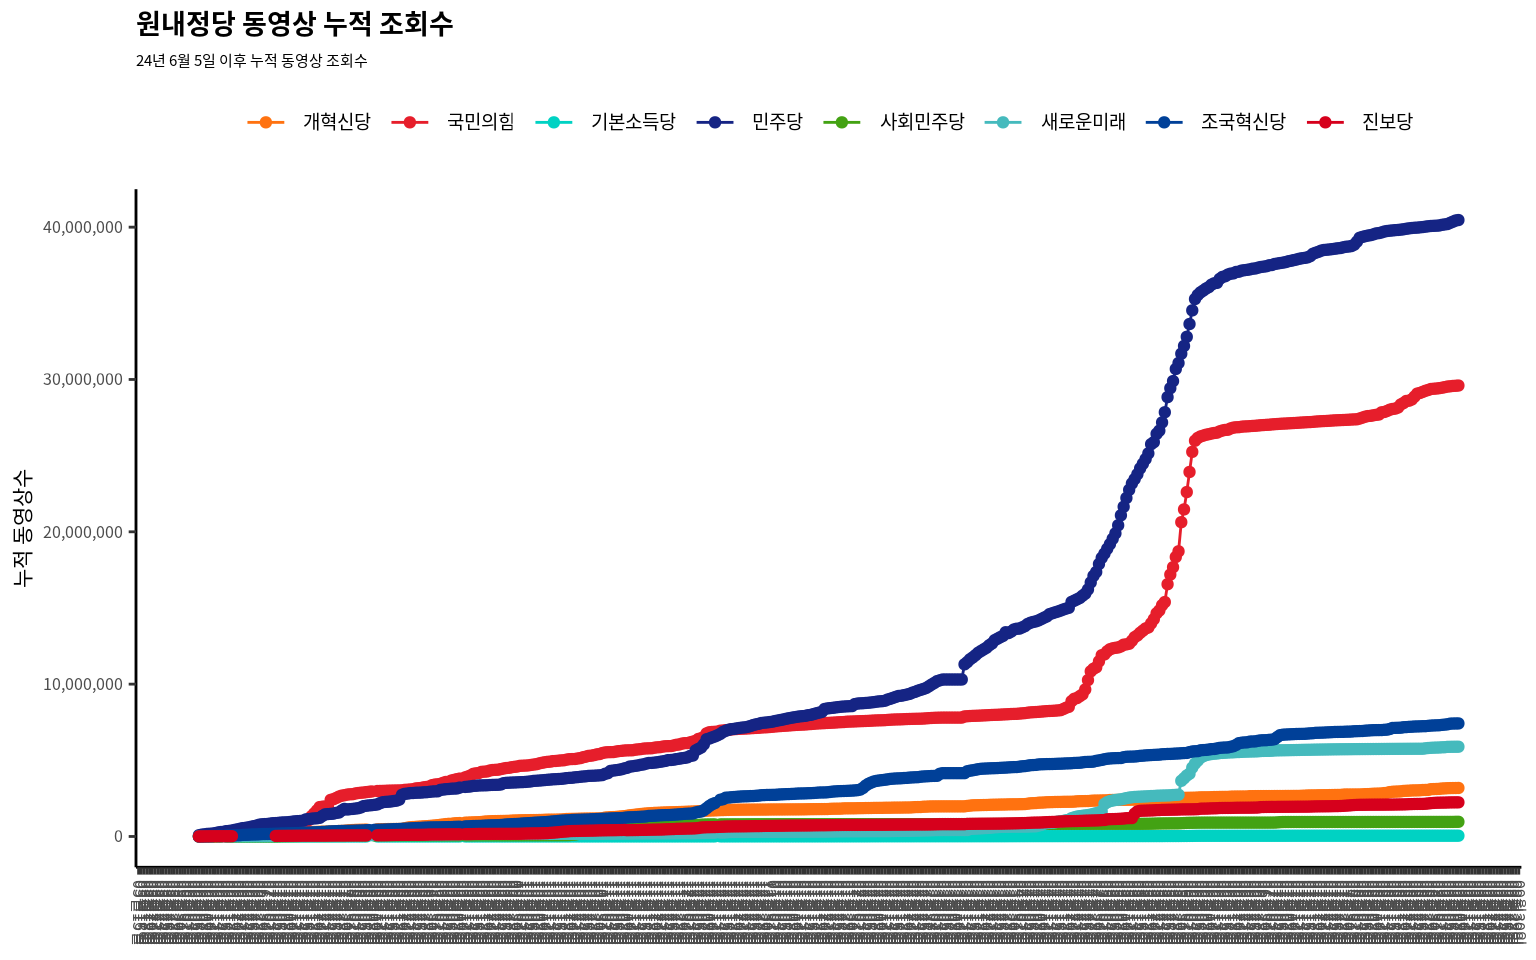
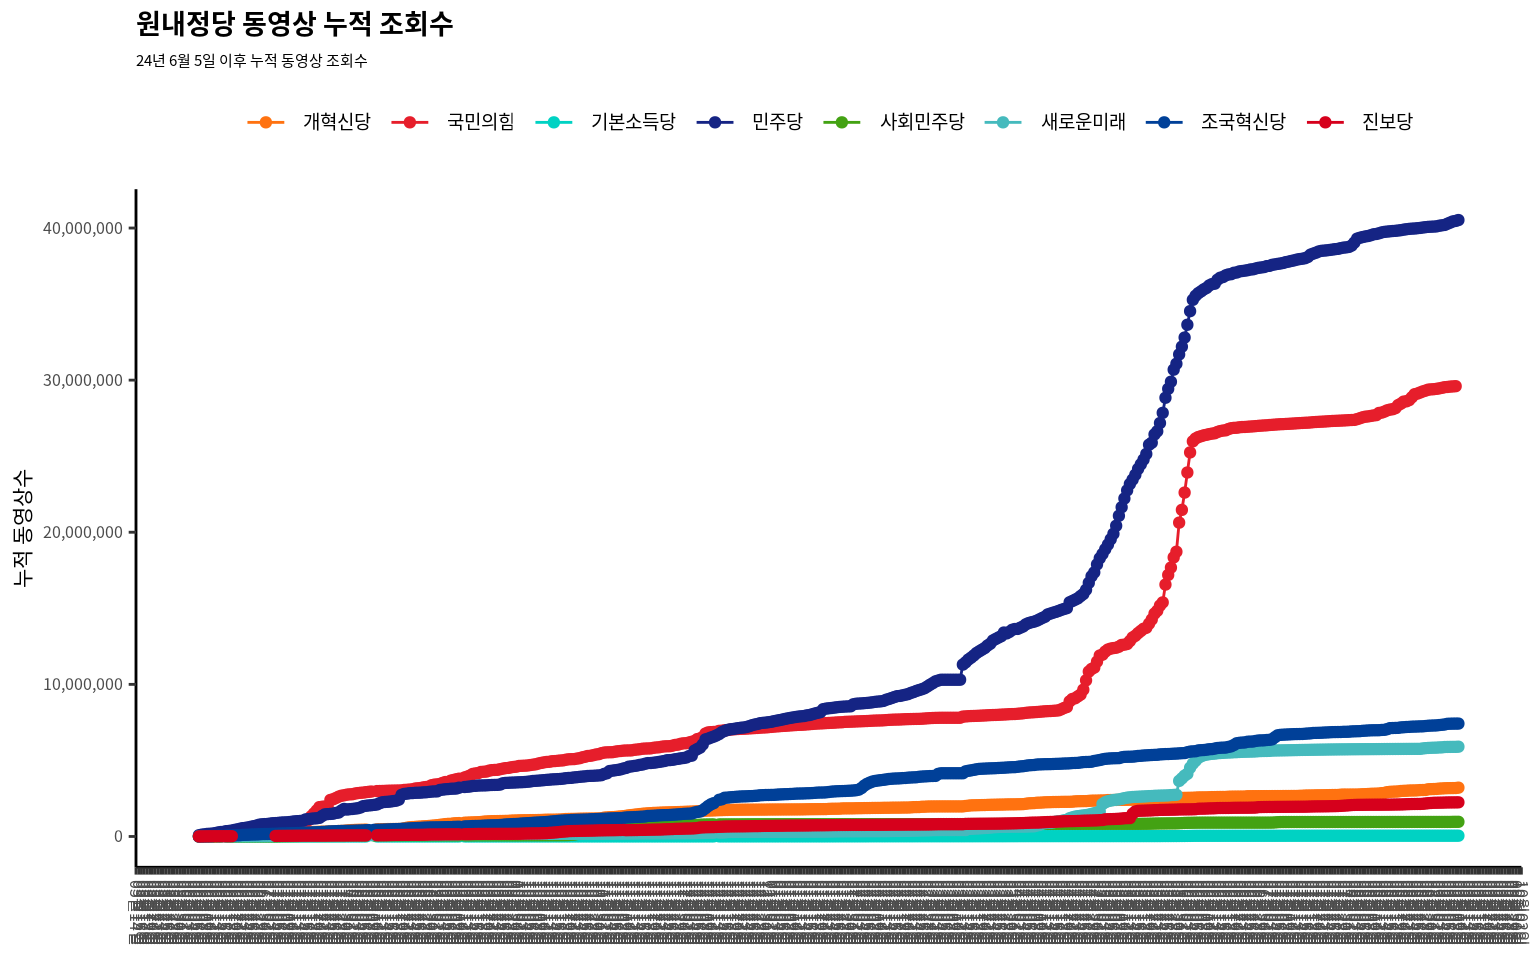
data: YouTube channels info data updated

diff --git a/index.html b/index.html
@@ -84,8 +84,8 @@ grid-auto-rows: minmax(0, 1fr);">
 <div class="card cell html-fill-item html-fill-container bslib-card" data-bslib-card-init="" data-require-bs-caller="card()" data-full-screen="false">
 <div class="card-body html-fill-item html-fill-container">
 <div class="cell-output-display html-fill-item html-fill-container">
-<div class="reactable html-widget html-fill-item html-fill-container" id="htmlwidget-6065b3ac198c354dcb30" style="width:auto;height:auto;"></div>
-<script type="application/json" data-for="htmlwidget-6065b3ac198c354dcb30">{"x":{"tag":{"name":"Reactable","attribs":{"data":{"채널":["UCoQD2xsqwzJA93PTIYERokg","UCGd1rNecfS_MND8PQsKOJhQ","UCKsehTG1cZIeb80J4AyiJ6Q","UCdkv2W-p3wEK5REQHfu7OKA","UCD2FurCIhOsG3FsTM1-jirA","UC58ySWAGaH5AxRQCk3XGLzA","UCvtJBm9C0rd6Py-GB8KLH1A","UCHXfJ__xZs-BAA-tU8L19rQ"],"정당명":["민주당","국민의힘","조국혁신당","개혁신당","진보당","새로운미래","기본소득당","사회민주당"],"채널명":["델리민주 [더불어민주당]","국민의힘TV","조국혁신당","개혁신당","진보당 진보TV","새미래민주당","기본소득당","사회민주당"],"개설일":["2018-10-30","2012-02-13","2024-03-06","2018-04-25","2017-10-25","2024-01-22","2019-08-27","2023-07-25"],"설명":["늘 국민과 함께하는\n더불어민주당 공식 유튜브 채널 델리민주입니다.\n\n-\n과거 영상\n🔵 민주당 영상아카이브1 https://youtube.com/c/minjoodang\n🔵 민주당 영상아카이브2 https://youtube.com/user/minjootv\n","국민 앞에 하나!  대한민국 유일 정통보수정당 '국민의힘' 공식 유튜브 채널입니다.\n\n국민의 힘으로 대한민국의 역사와 미래를 지키겠습니다.","이 채널은 조국혁신당이 국민과 함께  \n‘더 나은 대한민국’을 만들어가기 위해 준비한 소통의 공간입니다.  \n\n정의로운 민주주의, 사회권 선진국, 그리고 국민의 안전과 권리를 지키는 정치를 약속합니다.\n\n📌 여기서 만날 수 있는 콘텐츠\n- 조국혁신당의 공식 입장과 메시지\n- 주요 정책 해설과 현장 설명\n- 당 대표 및 의원들의 연설과 인터뷰\n- 국민과 함께하는 집회, 간담회, 행사 영상\n\n우리의 일상, 우리 미래와 딱 맞닿아 정치. \n어렵지 않습니다. \n\n구독과 알림 설정으로 함께해주세요.  \n“더 나은 대한민국”을 만드는 여정,  \n이제 우리 모두의 이야기입니다.\n","개혁신당 공식 유튜브 채널입니다.\n\n최고위원회의와 당내 행사를 가장 빠르게 만나보실 수 있습니다.\n구독과 좋아요 부탁드립니다!\n\n[중앙당 후원]\n신한 140-014-435110(예금주_개혁신당 중앙당 후원회)\n\n링크\n개혁신당 홈페이지 : https://rallypoint.kr/\n개혁신당 인스타그램 : www.instagram.com/reformparty__official\n","진보당의 공식 유튜브 채널입니다.\n\n온라인 당원가입 : https://jinboparty.com/pages/?p=34&u=W&step\n진보당 후원 계좌 : 농협 301-0221-3827-11\n후원 문의 : 02-6933-0012\n후원 안내 : https://jinboparty.com/contents/?cp=support\n","오직 국가의 미래와 국민의 행복만을 바라보고 나아갑니다.\n국민 여러분의 동참을 부탁드립니다.\n","대한민국 원내정당 기본소득당의 공식 유튜브입니다\n","사회민주당 공식 유튜브 계정\n"],"키워드":["민주당 더불어민주당 더민주 민주 델리민주 \"더불어민주당 유튜브\"","자유한국당 오른소리 김병준 나경원 홍준표 의원총회 최고위원회의 최고중진연석회의 박근혜 김무성 민생 경제 유세 순방 방문 황교안 단식 광화문 투쟁 미래통합당 유승민 이언주 국민의힘 김종인 준스톤 이준석 국민의힘 윤석열 한동훈","조국 조국혁신당 황운하 김선민 신장식 이해민 서왕진 정춘생 차규근 김준형 박은정 김재원 강경숙 윤석열탄핵 정권심판 검찰해체 금투세 탄핵추진위원회 3개월은너무길다 한동훈 국민의힘 김건희정권","개혁신당 이준석 천하람 이기인 준스톤 선거 국회의원 여당 야당 국회 비례대표 신당 창당 정당 민심 \"이준석 유튜브\" 제3정당 \"이준석 신당\"","진보당 윤석열 김건희 탄핵 특검 퇴진 이재명 김재연","","기본소득 기본소득당 재난지원금 용혜인 신지혜",""],"토픽범주":["/m/05qt0, /m/098wr","/m/05qt0, /m/098wr","/m/098wr, /m/05qt0","/m/098wr, /m/05qt0","/m/098wr, /m/05qt0","/m/05qt0, /m/098wr","/m/098wr, /m/05qt0","/m/05qt0, /m/098wr"]},"columns":[{"id":"채널","name":"채널","type":"character","header":"채널","minWidth":30,"align":"center","headerStyle":{"background":"#f7f7f8"},"cell":"\n          function(cellInfo) {\n            // Render as a link\n            \n            return '<a href=https://www.youtube.com/channel/' + cellInfo.value + '/>' + cellInfo.value + '<\/a>'\n          }","html":true},{"id":"정당명","name":"정당명","type":"factor","header":"정당명","minWidth":10,"align":"center","headerStyle":{"background":"#f7f7f8"},"show":true},{"id":"채널명","name":"채널명","type":"character","header":"채널명","minWidth":15,"align":"center","headerStyle":{"background":"#f7f7f8"},"show":true},{"id":"개설일","name":"개설일","type":"Date","header":"개설일","minWidth":10,"align":"center","headerStyle":{"background":"#f7f7f8"},"show":true},{"id":"설명","name":"설명","type":"character","header":"설명","minWidth":80,"align":"center","headerStyle":{"background":"#f7f7f8"}},{"id":"키워드","name":"키워드","type":"character","header":"키워드","minWidth":50,"align":"center","headerStyle":{"background":"#f7f7f8"},"show":true},{"id":"토픽범주","name":"토픽범주","type":"character","header":"토픽범주","minWidth":30,"align":"center","headerStyle":{"background":"#f7f7f8"},"show":true}],"searchable":true,"highlight":true,"bordered":true,"dataKey":"09557dbdb670c0a849673c70b34dabc5"},"children":[]},"class":"reactR_markup"},"evals":["tag.attribs.columns.0.cell"],"jsHooks":[]}</script>
+<div class="reactable html-widget html-fill-item html-fill-container" id="htmlwidget-275055ac31ee702056d2" style="width:auto;height:auto;"></div>
+<script type="application/json" data-for="htmlwidget-275055ac31ee702056d2">{"x":{"tag":{"name":"Reactable","attribs":{"data":{"채널":["UCoQD2xsqwzJA93PTIYERokg","UCGd1rNecfS_MND8PQsKOJhQ","UCKsehTG1cZIeb80J4AyiJ6Q","UCdkv2W-p3wEK5REQHfu7OKA","UCD2FurCIhOsG3FsTM1-jirA","UC58ySWAGaH5AxRQCk3XGLzA","UCvtJBm9C0rd6Py-GB8KLH1A","UCHXfJ__xZs-BAA-tU8L19rQ"],"정당명":["민주당","국민의힘","조국혁신당","개혁신당","진보당","새로운미래","기본소득당","사회민주당"],"채널명":["델리민주 [더불어민주당]","국민의힘TV","조국혁신당","개혁신당","진보당 진보TV","새미래민주당","기본소득당","사회민주당"],"개설일":["2018-10-30","2012-02-13","2024-03-06","2018-04-25","2017-10-25","2024-01-22","2019-08-27","2023-07-25"],"설명":["늘 국민과 함께하는\n더불어민주당 공식 유튜브 채널 델리민주입니다.\n\n-\n과거 영상\n🔵 민주당 영상아카이브1 https://youtube.com/c/minjoodang\n🔵 민주당 영상아카이브2 https://youtube.com/user/minjootv\n","국민 앞에 하나!  대한민국 유일 정통보수정당 '국민의힘' 공식 유튜브 채널입니다.\n\n국민의 힘으로 대한민국의 역사와 미래를 지키겠습니다.","이 채널은 조국혁신당이 국민과 함께  \n‘더 나은 대한민국’을 만들어가기 위해 준비한 소통의 공간입니다.  \n\n정의로운 민주주의, 사회권 선진국, 그리고 국민의 안전과 권리를 지키는 정치를 약속합니다.\n\n📌 여기서 만날 수 있는 콘텐츠\n- 조국혁신당의 공식 입장과 메시지\n- 주요 정책 해설과 현장 설명\n- 당 대표 및 의원들의 연설과 인터뷰\n- 국민과 함께하는 집회, 간담회, 행사 영상\n\n우리의 일상, 우리 미래와 딱 맞닿아 정치. \n어렵지 않습니다. \n\n구독과 알림 설정으로 함께해주세요.  \n“더 나은 대한민국”을 만드는 여정,  \n이제 우리 모두의 이야기입니다.\n","개혁신당 공식 유튜브 채널입니다.\n\n최고위원회의와 당내 행사를 가장 빠르게 만나보실 수 있습니다.\n구독과 좋아요 부탁드립니다!\n\n[중앙당 후원]\n신한 140-014-435110(예금주_개혁신당 중앙당 후원회)\n\n링크\n개혁신당 홈페이지 : https://rallypoint.kr/\n개혁신당 인스타그램 : www.instagram.com/reformparty__official\n","진보당의 공식 유튜브 채널입니다.\n\n온라인 당원가입 : https://jinboparty.com/pages/?p=34&u=W&step\n진보당 후원 계좌 : 농협 301-0221-3827-11\n후원 문의 : 02-6933-0012\n후원 안내 : https://jinboparty.com/contents/?cp=support\n","오직 국가의 미래와 국민의 행복만을 바라보고 나아갑니다.\n국민 여러분의 동참을 부탁드립니다.\n","대한민국 원내정당 기본소득당의 공식 유튜브입니다\n","사회민주당 공식 유튜브 계정\n"],"키워드":["민주당 더불어민주당 더민주 민주 델리민주 \"더불어민주당 유튜브\"","자유한국당 오른소리 김병준 나경원 홍준표 의원총회 최고위원회의 최고중진연석회의 박근혜 김무성 민생 경제 유세 순방 방문 황교안 단식 광화문 투쟁 미래통합당 유승민 이언주 국민의힘 김종인 준스톤 이준석 국민의힘 윤석열 한동훈","조국 조국혁신당 황운하 김선민 신장식 이해민 서왕진 정춘생 차규근 김준형 박은정 김재원 강경숙 윤석열탄핵 정권심판 검찰해체 금투세 탄핵추진위원회 3개월은너무길다 한동훈 국민의힘 김건희정권","개혁신당 이준석 천하람 이기인 준스톤 선거 국회의원 여당 야당 국회 비례대표 신당 창당 정당 민심 \"이준석 유튜브\" 제3정당 \"이준석 신당\"","진보당 윤석열 김건희 탄핵 특검 퇴진 이재명 김재연","","기본소득 기본소득당 재난지원금 용혜인 신지혜",""],"토픽범주":["/m/05qt0, /m/098wr","/m/05qt0, /m/098wr","/m/05qt0, /m/098wr","/m/05qt0, /m/098wr","/m/05qt0, /m/098wr","/m/05qt0, /m/098wr","/m/098wr, /m/05qt0","/m/05qt0, /m/098wr"]},"columns":[{"id":"채널","name":"채널","type":"character","header":"채널","minWidth":30,"align":"center","headerStyle":{"background":"#f7f7f8"},"cell":"\n          function(cellInfo) {\n            // Render as a link\n            \n            return '<a href=https://www.youtube.com/channel/' + cellInfo.value + '/>' + cellInfo.value + '<\/a>'\n          }","html":true},{"id":"정당명","name":"정당명","type":"factor","header":"정당명","minWidth":10,"align":"center","headerStyle":{"background":"#f7f7f8"},"show":true},{"id":"채널명","name":"채널명","type":"character","header":"채널명","minWidth":15,"align":"center","headerStyle":{"background":"#f7f7f8"},"show":true},{"id":"개설일","name":"개설일","type":"Date","header":"개설일","minWidth":10,"align":"center","headerStyle":{"background":"#f7f7f8"},"show":true},{"id":"설명","name":"설명","type":"character","header":"설명","minWidth":80,"align":"center","headerStyle":{"background":"#f7f7f8"}},{"id":"키워드","name":"키워드","type":"character","header":"키워드","minWidth":50,"align":"center","headerStyle":{"background":"#f7f7f8"},"show":true},{"id":"토픽범주","name":"토픽범주","type":"character","header":"토픽범주","minWidth":30,"align":"center","headerStyle":{"background":"#f7f7f8"},"show":true}],"searchable":true,"highlight":true,"bordered":true,"dataKey":"a4d7e60c3cdd34ee6e1177d181a66442"},"children":[]},"class":"reactR_markup"},"evals":["tag.attribs.columns.0.cell"],"jsHooks":[]}</script>
 </div>
 </div>
 <bslib-tooltip placement="auto" bsoptions="[]" data-require-bs-version="5" data-require-bs-caller="tooltip()">
@@ -102,8 +102,8 @@ grid-auto-rows: minmax(0, 1fr);">
 <div class="card-header"><div class="card-title">표</div></div>
 <div class="card-body html-fill-item html-fill-container">
 <div class="cell-output-display html-fill-item html-fill-container">
-<div class="reactable html-widget html-fill-item html-fill-container" id="htmlwidget-d367b5182a55d2b1010f" style="width:auto;height:auto;"></div>
-<script type="application/json" data-for="htmlwidget-d367b5182a55d2b1010f">{"x":{"tag":{"name":"Reactable","attribs":{"data":{"정당명":["민주당","국민의힘","조국혁신당","개혁신당","진보당","새로운미래","기본소득당","사회민주당"],"구독자수":[470000,487000,129000,56300,22300,51000,4110,5730],"조회수":[117170933,151869571,10758521,4470358,6265976,8114699,720987,1113078],"비디오수":[6764,11389,1387,476,1601,590,324,240],"개설일":["2018-10-30","2012-02-13","2024-03-06","2018-04-25","2017-10-25","2024-01-22","2019-08-27","2023-07-25"],"활동기간_년":[6.9,13.6,1.5,7.4,7.9,1.6,6,2.1]},"columns":[{"id":"정당명","name":"정당명","type":"factor","header":"정당명","minWidth":20,"align":"center","headerStyle":{"background":"#f7f7f8"}},{"id":"구독자수","name":"구독자수","type":"numeric","header":"구독자수","minWidth":30,"align":"center","headerStyle":{"background":"#f7f7f8"},"format":{"cell":{"digits":0,"separators":true},"aggregated":{"digits":0,"separators":true}}},{"id":"조회수","name":"조회수","type":"numeric","header":"조회수","minWidth":30,"align":"center","headerStyle":{"background":"#f7f7f8"},"format":{"cell":{"digits":0,"separators":true},"aggregated":{"digits":0,"separators":true}}},{"id":"비디오수","name":"비디오수","type":"numeric","header":"비디오수","minWidth":30,"align":"center","headerStyle":{"background":"#f7f7f8"},"format":{"cell":{"digits":0,"separators":true},"aggregated":{"digits":0,"separators":true}}},{"id":"개설일","name":"개설일","type":"Date","header":"개설일","minWidth":30,"align":"center","headerStyle":{"background":"#f7f7f8"},"show":true},{"id":"활동기간_년","name":"활동기간_년","type":"numeric","header":"활동기간_년","minWidth":30,"align":"center","headerStyle":{"background":"#f7f7f8"},"show":true}],"searchable":true,"highlight":true,"bordered":true,"dataKey":"f25ccff397831291f7cf41b39c1c4dd2"},"children":[]},"class":"reactR_markup"},"evals":[],"jsHooks":[]}</script>
+<div class="reactable html-widget html-fill-item html-fill-container" id="htmlwidget-5d1b6609e79835aca3f4" style="width:auto;height:auto;"></div>
+<script type="application/json" data-for="htmlwidget-5d1b6609e79835aca3f4">{"x":{"tag":{"name":"Reactable","attribs":{"data":{"정당명":["민주당","국민의힘","조국혁신당","개혁신당","진보당","새로운미래","기본소득당","사회민주당"],"구독자수":[470000,487000,129000,56200,22300,51000,4110,5730],"조회수":[117229447,151869571,10759571,4494990,6270587,8125539,721130,1113512],"비디오수":[6768,11389,1387,476,1601,590,324,240],"개설일":["2018-10-30","2012-02-13","2024-03-06","2018-04-25","2017-10-25","2024-01-22","2019-08-27","2023-07-25"],"활동기간_년":[6.9,13.6,1.5,7.4,7.9,1.6,6,2.1]},"columns":[{"id":"정당명","name":"정당명","type":"factor","header":"정당명","minWidth":20,"align":"center","headerStyle":{"background":"#f7f7f8"}},{"id":"구독자수","name":"구독자수","type":"numeric","header":"구독자수","minWidth":30,"align":"center","headerStyle":{"background":"#f7f7f8"},"format":{"cell":{"digits":0,"separators":true},"aggregated":{"digits":0,"separators":true}}},{"id":"조회수","name":"조회수","type":"numeric","header":"조회수","minWidth":30,"align":"center","headerStyle":{"background":"#f7f7f8"},"format":{"cell":{"digits":0,"separators":true},"aggregated":{"digits":0,"separators":true}}},{"id":"비디오수","name":"비디오수","type":"numeric","header":"비디오수","minWidth":30,"align":"center","headerStyle":{"background":"#f7f7f8"},"format":{"cell":{"digits":0,"separators":true},"aggregated":{"digits":0,"separators":true}}},{"id":"개설일","name":"개설일","type":"Date","header":"개설일","minWidth":30,"align":"center","headerStyle":{"background":"#f7f7f8"},"show":true},{"id":"활동기간_년","name":"활동기간_년","type":"numeric","header":"활동기간_년","minWidth":30,"align":"center","headerStyle":{"background":"#f7f7f8"},"show":true}],"searchable":true,"highlight":true,"bordered":true,"dataKey":"5132fe6046a3ca7de50fef6ad15d0431"},"children":[]},"class":"reactR_markup"},"evals":[],"jsHooks":[]}</script>
 </div>
 </div>
 <bslib-tooltip placement="auto" bsoptions="[]" data-require-bs-version="5" data-require-bs-caller="tooltip()">
